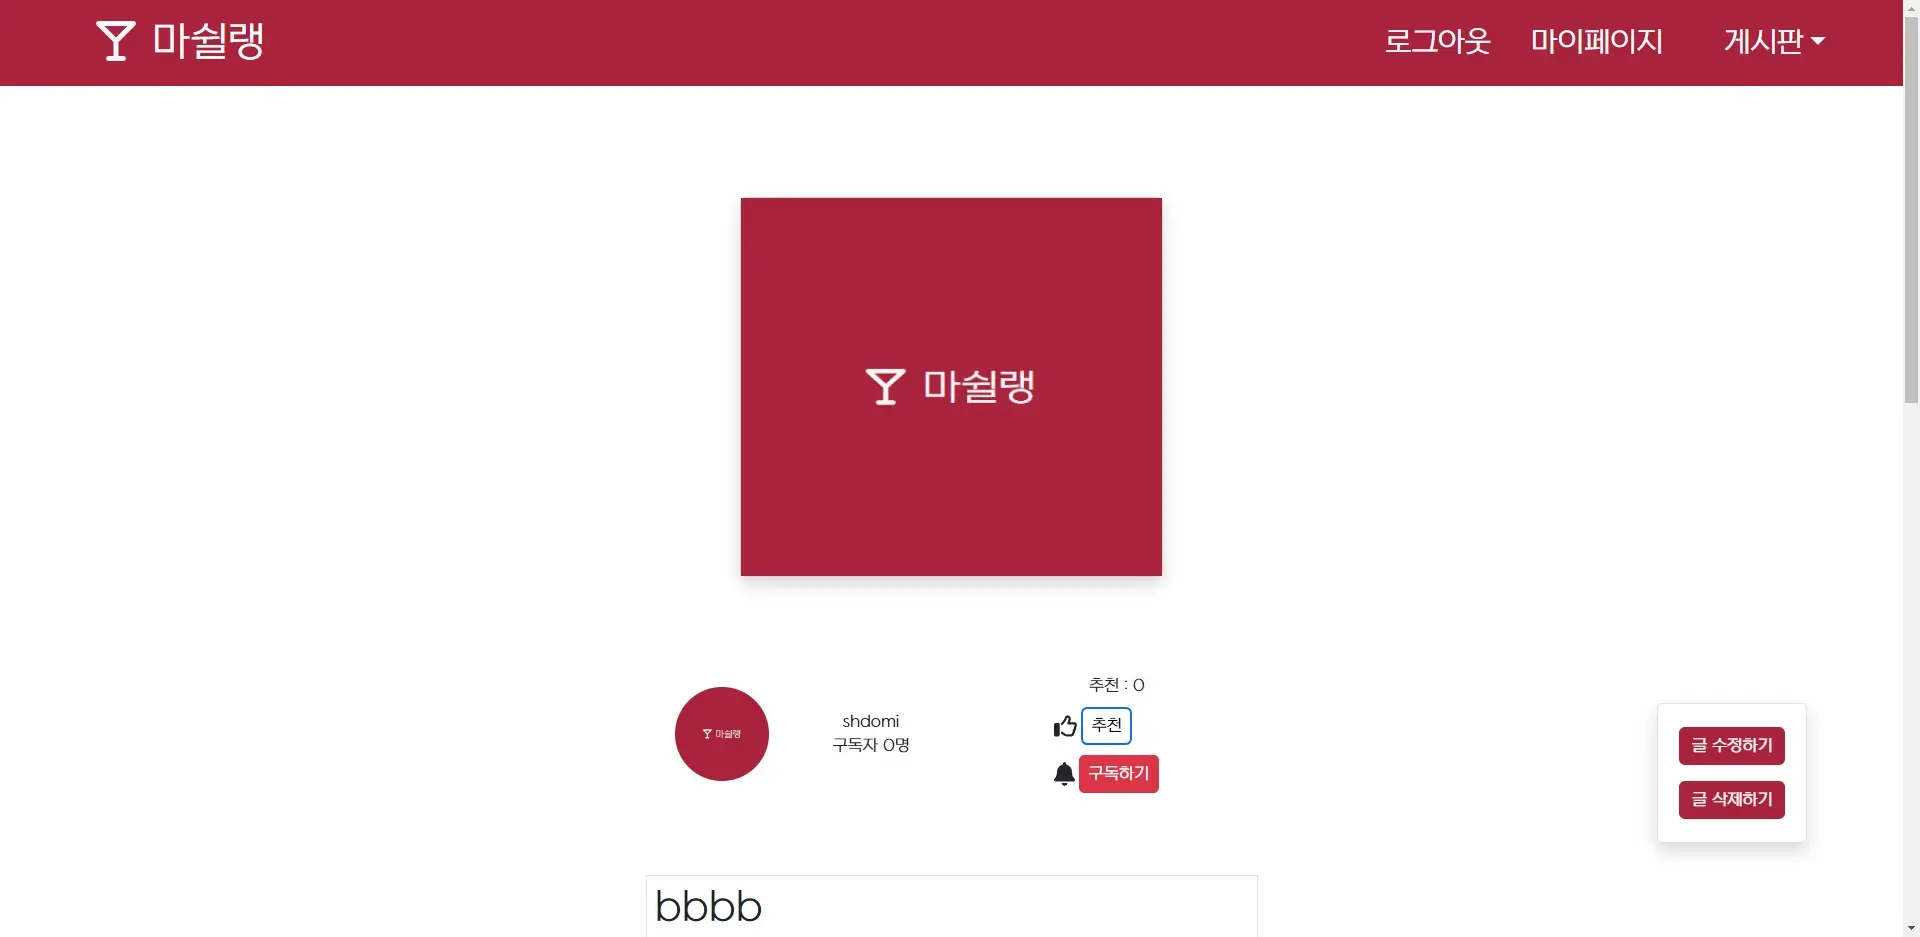
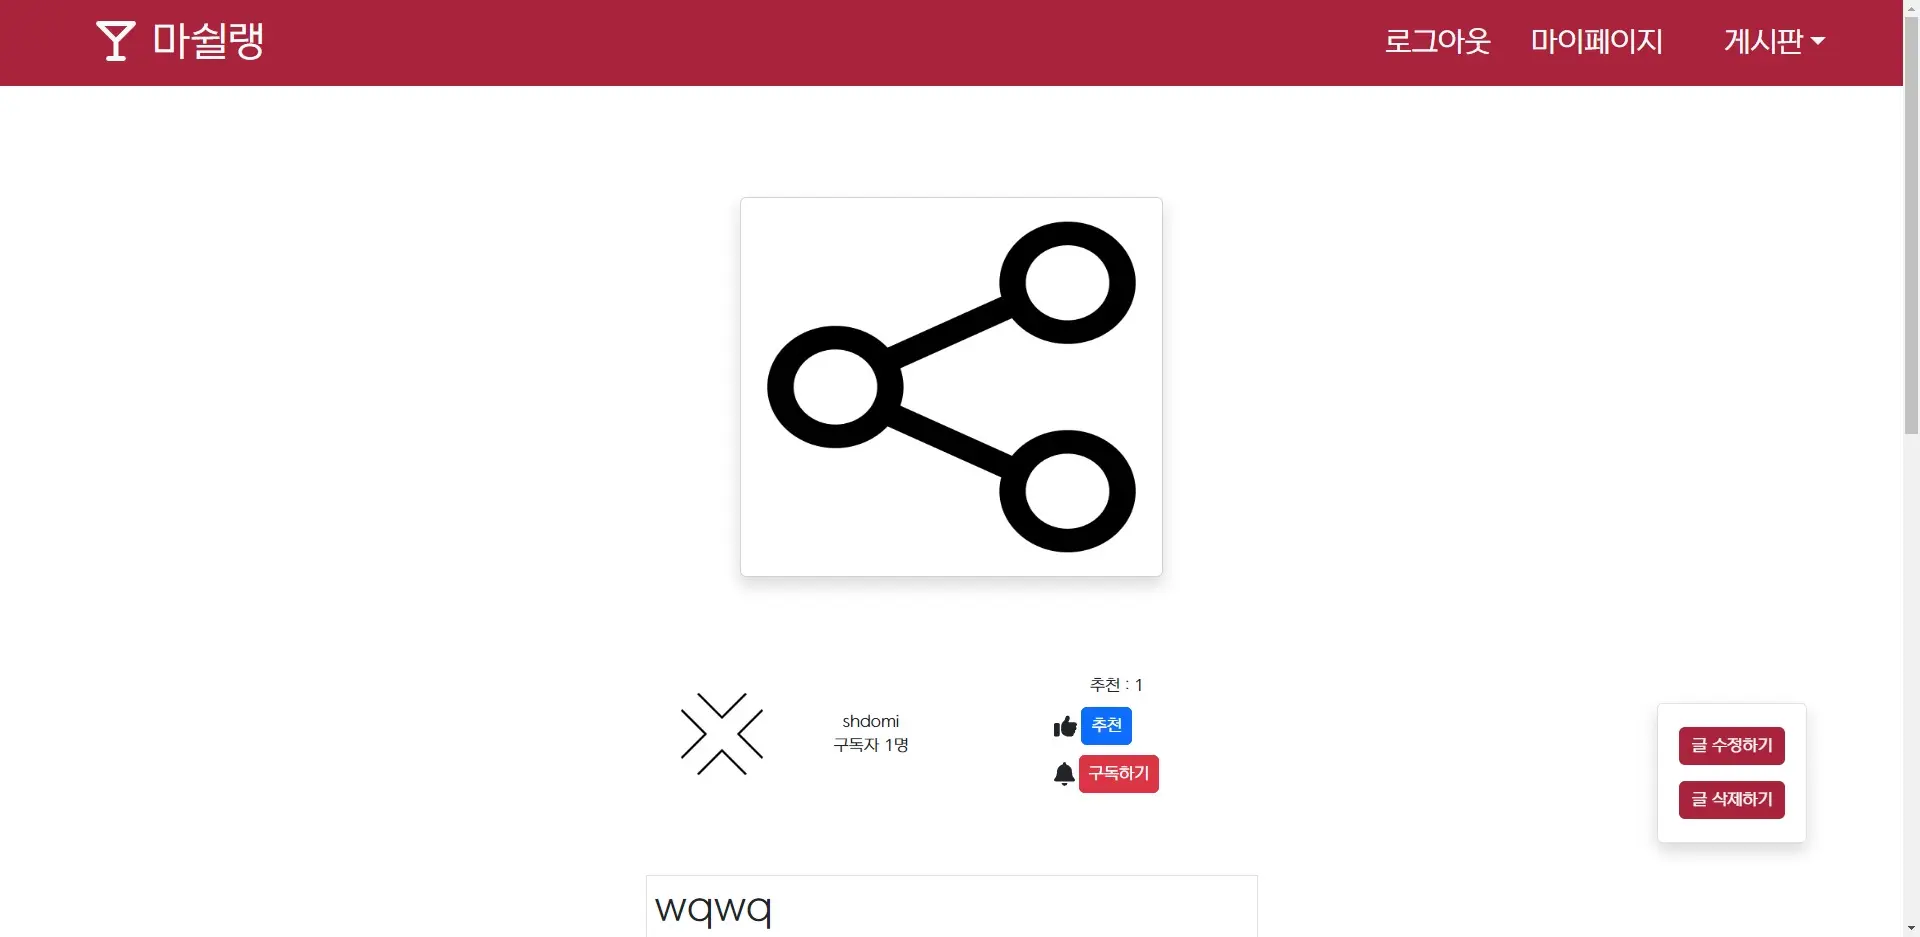
chore : projects 마쉴랭 이미지

diff --git a/data/projects.tsx b/data/projects.tsx
@@ -109,6 +109,7 @@ export const projects: ProjectList[] = [
       "/mash/g5.",
       "/mash/g6.",
       "/mash/g7.",
+      "/mash/g8.",
     ],
   ],
   [
